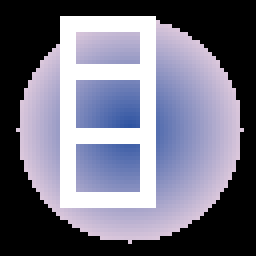
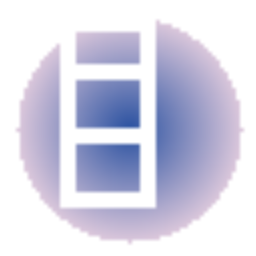
fix: 套件图标去黑底 + 新增 DSM 桌面图标（1.0.9-0002）
图标（套件中心里显示成黑方块）：
- 上游的 assets/ICON.PNG / ICON_256.PNG 是「黑底 + logo」的 RGB 图，没有
  alpha 通道，直接当图标用就是一个黑方块。新增 _key_out_black 做亮度键控，
  背景转透明。实测该图背景是纯 0、logo 最暗 160，中间无过渡像素，阈值可靠。
- 图标源改回 assets/ICON.PNG（64×64）。此前误以为 ICON_256.PNG 是高清源，
  实测它就是用最近邻把 ICON.PNG 放大 4 倍的结果（逐像素零差异），本身没有
  额外信息，拿它当源只会把 4 像素的方块台阶原样带进产物。
- 新增 _bilinear_resize：放大时用双线性插值（按预乘 alpha，避免透明边缘混出
  暗边）。原来放大走 _box_resize，整数倍时退化成最近邻，256 图标边缘是方块。
  现在 256 图标边缘平滑。

桌面图标（此前完全没有）：
- 新增 ui/config + ui/images/icon_256.png，INFO 增加 dsmuidir="ui"、
  dsmappname、reloadui="yes"。只有 dsmuidir 不够，必须有 ui/config 把这个
  应用定义出来，DSM 桌面上才会出现图标。
- dsmappname 用 SYNO.SDS.agneshub.Application：参考的真实第三方套件
  （homebridge / PeerBanHelper / TorrServer / 百度网盘）都用 SYNO.SDS.Xxx
  或 vendor.app 形式，没有一家用连字符，故避开。
- validate_spk 的必检项加入 ui/config 与 ui/images/icon_256.png，防止回归。

版本号取 0002：1.0.9-0001 已发布，这次是同一功能版本的修复重发。

diff --git a/docs/index.html b/docs/index.html
@@ -70,7 +70,7 @@
 <h2>当前版本</h2>
 <table>
   <tr><th>套件</th><th>版本</th><th>架构</th><th>大小</th><th>MD5</th></tr>
-  <tr><td>agnes-hub</td><td>1.0.9-0001</td><td>x86_64</td><td>2.70 MB</td><td><code>a0f022c3ec541594dd6562f2a1968aa9</code></td></tr>
+  <tr><td>agnes-hub</td><td>1.0.9-0002</td><td>x86_64</td><td>2.75 MB</td><td><code>cc81fb562044bfec175d62ae54dc2a25</code></td></tr>
 </table>
 
 <h2>安装后</h2>
@@ -89,7 +89,7 @@
 
 <h2>手动下载</h2>
 <p>不想加套件源的话，直接下这个文件，再用「套件中心 → 手动安装」装：</p>
-<p><a href="https://kosje.github.io/agnes-hub-go-DSM/agnes-hub-x86_64-1.0.9-0001.spk"><code>agnes-hub-x86_64-1.0.9-0001.spk</code></a>（x86_64，2.70 MB）</p>
+<p><a href="https://kosje.github.io/agnes-hub-go-DSM/agnes-hub-x86_64-1.0.9-0002.spk"><code>agnes-hub-x86_64-1.0.9-0002.spk</code></a>（x86_64，2.75 MB）</p>
 <p class="sub">这些链接指向本站（GitHub Pages），不经过 GitHub Release 的跳转 ——
 国内网络访问 Release 下载地址常会失败。</p>
 

diff --git a/tools/build_spk.py b/tools/build_spk.py
@@ -60,6 +60,12 @@ BUNDLE_DIR = os.path.join(ROOT, "spk-bundle")
 
 APP_ID = "agnes-hub"
 SERVICE_PORT = 4142
+# DSM 桌面应用的 ID，同时用于 INFO 的 dsmappname 与 ui/config 的键（两处必须一致）。
+# 不带宽字符：参考的真实第三方套件（homebridge / PeerBanHelper / TorrServer /
+# 百度网盘）用的都是 SYNO.SDS.Xxx 或 vendor.app 形式，没有一家用连字符。
+DSM_APP_NAME = "SYNO.SDS.agneshub.Application"
+# 桌面图标点开后的落地路径（管理控制台）
+DSM_APP_URL = "/console"
 OS_MIN_VER = "7.0-40000"
 MAINTAINER = "kosje"
 MAINTAINER_URL = "https://github.com/kosje/agnes-hub-go-DSM"
@@ -397,17 +403,88 @@ def _box_resize(src_w, src_h, src, dst_w, dst_h):
     return out
 
 
-def make_icon_set(src_png, targets):
-    """从 assets/ICON.PNG 生成任意尺寸的方形图标。
+def _bilinear_resize(src_w, src_h, src, dst_w, dst_h):
+    """双线性放大。按预乘 alpha 插值，避免透明边缘混出暗边。
 
-    源图是「左侧方形 App 图标 + 右侧标语文字」的横幅（当前 270×114）。
-    方形图标就贴在左上角，所以取 min(宽,高) 作为边长从 (0,0) 裁切。
-    若以后把源图换成真正的方形图标，这个规则会自然退化为「整图」。
+    为什么不用 _box_resize 放大：整数倍放大时面积平均会退化成最近邻，
+    源图 64→256 会得到 4 像素见方的方块台阶。图标源只有 64×64，
+    放大必须走插值才能平滑。
+    """
+    out = bytearray(dst_w * dst_h * 4)
+    for ty in range(dst_h):
+        sy = (ty + 0.5) * src_h / dst_h - 0.5
+        y0 = max(0, min(src_h - 1, int(sy)))
+        y1 = min(src_h - 1, y0 + 1)
+        fy = max(0.0, min(1.0, sy - y0))
+        for tx in range(dst_w):
+            sx = (tx + 0.5) * src_w / dst_w - 0.5
+            x0 = max(0, min(src_w - 1, int(sx)))
+            x1 = min(src_w - 1, x0 + 1)
+            fx = max(0.0, min(1.0, sx - x0))
+
+            ar = ag = ab = aa = 0.0
+            for px_, py_, wgt in ((x0, y0, (1 - fx) * (1 - fy)),
+                                  (x1, y0, fx * (1 - fy)),
+                                  (x0, y1, (1 - fx) * fy),
+                                  (x1, y1, fx * fy)):
+                if wgt <= 0:
+                    continue
+                i = (py_ * src_w + px_) * 4
+                a = src[i + 3] / 255.0
+                ar += src[i] * a * wgt
+                ag += src[i + 1] * a * wgt
+                ab += src[i + 2] * a * wgt
+                aa += src[i + 3] * wgt
+
+            o = (ty * dst_w + tx) * 4
+            if aa <= 0:
+                out[o] = out[o + 1] = out[o + 2] = out[o + 3] = 0
+            else:
+                out[o] = min(255, int(round(ar * 255.0 / aa)))
+                out[o + 1] = min(255, int(round(ag * 255.0 / aa)))
+                out[o + 2] = min(255, int(round(ab * 255.0 / aa)))
+                out[o + 3] = min(255, int(round(aa)))
+    return out
+
+
+def _png_colortype(path):
+    """读 PNG 的 IHDR 取颜色类型：6=RGBA，2=RGB（无 alpha 通道）。"""
+    with open(path, "rb") as f:
+        head = f.read(29)
+    return struct.unpack(">IIBBBBB", head[16:29])[3]
+
+
+def _key_out_black(w, h, px, threshold=16):
+    """把纯黑背景抠成透明（in-place 返回新的 bytearray）。
+
+    上游的 assets/ICON.PNG 与 ICON_256.PNG 是「黑底 + logo」的 RGB 图，没有
+    alpha 通道 —— 直接拿来当图标，套件中心里会显示成一个黑方块。
+    这里按亮度键控：max(r,g,b) 小于阈值就判为背景。
+
+    实测该图背景是纯 0、logo 最暗也有 160，中间没有过渡像素，所以简单阈值就够；
+    边缘的抗锯齿交给后续 _box_resize 的面积平均去生成。
+    """
+    out = bytearray(px)
+    for i in range(0, w * h * 4, 4):
+        if max(out[i], out[i + 1], out[i + 2]) < threshold:
+            out[i + 3] = 0
+    return out
+
+
+def make_icon_set(src_png, targets):
+    """从图标源文件生成任意尺寸的方形图标。
+
+    源图应为正方形（当前 assets/ICON_256.PNG 是 256×256）。仍保留
+    「取 min(宽,高) 从 (0,0) 裁切」的规则，以防换成横幅图时不至于出错。
 
     targets 是 [(边长, 输出路径), ...]。群晖 SPK 要 64/256，
-    套件中心的缩略图要 72/256，所以尺寸做成参数而不是写死。
+    套件中心的缩略图要 72/256，桌面图标要 256，所以尺寸做成参数而不是写死。
     """
     w, h, px = _png_decode_rgba(src_png)
+    keyed = _png_colortype(src_png) == 2
+    if keyed:
+        # RGB 源没有 alpha，黑色是事实上的背景色，抠掉
+        px = _key_out_black(w, h, px)
     side = min(w, h)
     if side < 16:
         sys.exit("[ERROR] %s 尺寸过小（%dx%d），无法生成图标" % (src_png, w, h))
@@ -419,7 +496,11 @@ def make_icon_set(src_png, targets):
         crop[y * side * 4:(y + 1) * side * 4] = px[s:s + side * 4]
 
     for size, dst in targets:
-        scaled = _box_resize(side, side, crop, size, size)
+        if size > side:
+            # 放大必须插值：源图只有 side×side，整数倍面积平均会退化成最近邻
+            scaled = _bilinear_resize(side, side, crop, size, size)
+        else:
+            scaled = _box_resize(side, side, crop, size, size)
         _png_encode_rgba(dst, size, size, scaled)
     return w, h, side
 
@@ -531,6 +612,12 @@ def build_info(arch, spk_ver, checksum, extractsize_kb):
         'adminprotocol="http"',
         'adminport="%d"' % SERVICE_PORT,
         'adminurl="console"',
+        # DSM 桌面图标：dsmuidir 指向包内的 ui/ 目录，dsmappname 是应用 ID
+        # （必须与 ui/config 里的键一致）。reloadui 让安装后桌面自动刷新，
+        # 不用手动注销重登就能看到图标。
+        'dsmuidir="ui"',
+        'dsmappname="%s"' % DSM_APP_NAME,
+        'reloadui="yes"',
         # 4142 是固定端口（客户端配置依赖它），端口冲突时让服务自己启动失败
         # 并写日志，好过安装阶段直接被拒。
         'checkport="no"',
@@ -585,7 +672,27 @@ def prepare_arch(arch, binary_src, spk_ver, icon_src):
     make_icons(icon_src, os.path.join(d, "PACKAGE_ICON.PNG"),
                os.path.join(d, "PACKAGE_ICON_256.PNG"))
 
-    # 5. INFO
+    # 5. DSM 桌面图标（ui/）
+    #    只有 INFO 里的 dsmuidir/dsmappname 还不够，必须有 ui/config 把这个
+    #    「应用」定义出来 —— 否则套件只出现在套件中心，DSM 桌面上不会有图标。
+    ui_images = os.path.join(d, "ui", "images")
+    os.makedirs(ui_images, exist_ok=True)
+    make_icon_set(icon_src, [(256, os.path.join(ui_images, "icon_256.png"))])
+    with open(os.path.join(d, "ui", "config"), "w", encoding="utf-8", newline="\n") as f:
+        json.dump({".url": {DSM_APP_NAME: {
+            "title": "Agnes Hub",
+            "desc": "Agnes AI 多账号聚合中转 + RPM 限流排队网关",
+            "icon": "images/icon_256.png",
+            "type": "url",
+            "protocol": "http",
+            "port": str(SERVICE_PORT),
+            "url": DSM_APP_URL,
+            "allUsers": True,
+            "grantPrivilege": "local",
+        }}}, f, ensure_ascii=False, indent=4)
+        f.write("\n")
+
+    # 6. INFO
     extractsize_kb = (os.path.getsize(binary_src) + 1023) // 1024
     _write(os.path.join(d, "INFO"), build_info(arch, spk_ver, md5, extractsize_kb), mode=0o644)
 
@@ -604,6 +711,7 @@ def build_spk(bundle, out_path):
         _add_file(tar, os.path.join(bundle, "package.tgz"), "package.tgz", mode=0o644)
         _add_dir_recursive(tar, os.path.join(bundle, "scripts"), "scripts")
         _add_dir_recursive(tar, os.path.join(bundle, "conf"), "conf")
+        _add_dir_recursive(tar, os.path.join(bundle, "ui"), "ui")
         _add_file(tar, os.path.join(bundle, "PACKAGE_ICON.PNG"), "PACKAGE_ICON.PNG", mode=0o644)
         _add_file(tar, os.path.join(bundle, "PACKAGE_ICON_256.PNG"), "PACKAGE_ICON_256.PNG", mode=0o644)
     validate_spk(out_path)
@@ -621,6 +729,8 @@ def validate_spk(path):
         "scripts/preinst", "scripts/postinst", "scripts/preuninst",
         "scripts/postuninst", "scripts/preupgrade", "scripts/postupgrade",
         "conf/privilege", "PACKAGE_ICON.PNG", "PACKAGE_ICON_256.PNG",
+        # DSM 桌面图标：缺了不会导致安装失败，但桌面上不会有图标
+        "ui/config", "ui/images/icon_256.png",
     }
     # r: 明确只接受未压缩 tar，避免 r:* 又把错误的 gzip 外层悄悄放过。
     with tarfile.open(path, mode="r:") as outer:
@@ -682,6 +792,9 @@ def main():
 
     go_version = read_version()
     spk_ver = spk_version(go_version)
+    # 图标源用 assets/ICON.PNG（64×64）。别用 ICON_256.PNG：实测它就是 ICON.PNG
+    # 用最近邻放大 4 倍的结果（逐像素零差异），本身没有任何额外信息，拿它当源
+    # 只会把 4 像素的方块台阶原样带进产物。放大到 256 时由 _bilinear_resize 平滑处理。
     icon_src = os.path.join(ROOT, "assets", "ICON.PNG")
     if not os.path.exists(icon_src):
         sys.exit("[ERROR] 缺少图标源文件 assets/ICON.PNG")
@@ -697,7 +810,7 @@ def main():
     os.makedirs(BUNDLE_DIR, exist_ok=True)
     print("Go 版本号  : %s" % go_version)
     print("套件版本号 : %s" % spk_ver)
-    print("图标源     : assets/ICON.PNG")
+    print("图标源     : %s" % os.path.relpath(icon_src, ROOT).replace("\\", "/"))
     print()
 
     for arch, binary_name in targets:

diff --git a/tools/build_catalog.py b/tools/build_catalog.py
@@ -52,12 +52,10 @@ PRIMARY_ARCH = "x86_64"
 
 # 套件中心里显示的变更说明（HTML）。发新版时改这里。
 CHANGELOG = (
-    "同步上游 my788525/agnes-hub-go 至 v1.0.9+amd（26 个提交）。<br>"
-    "· 新增 AMD 免费 API 支持、站点优先级自动切换<br>"
-    "· 新增 Prometheus /metrics、请求超时与 402 分流<br>"
-    "· 新增意图 LRU 缓存、429 批量落盘、HTTP 客户端单例化<br>"
-    "· 控制台重写，聊天页与后台均适配移动端<br>"
-    "· 图标换为方形（64×64 / 256×256）"
+    "修复图标与桌面集成。<br>"
+    "· 套件图标去掉黑底，改为透明背景<br>"
+    "· 256 图标改用双线性放大，消除方块台阶<br>"
+    "· 新增 DSM 桌面图标，可从桌面直接打开控制台"
 )
 
 CATALOG_FIELDS_NOTE = "SynoCommunity/spkrepo 的 build_entry_data 与 sspks 的字段清单"
